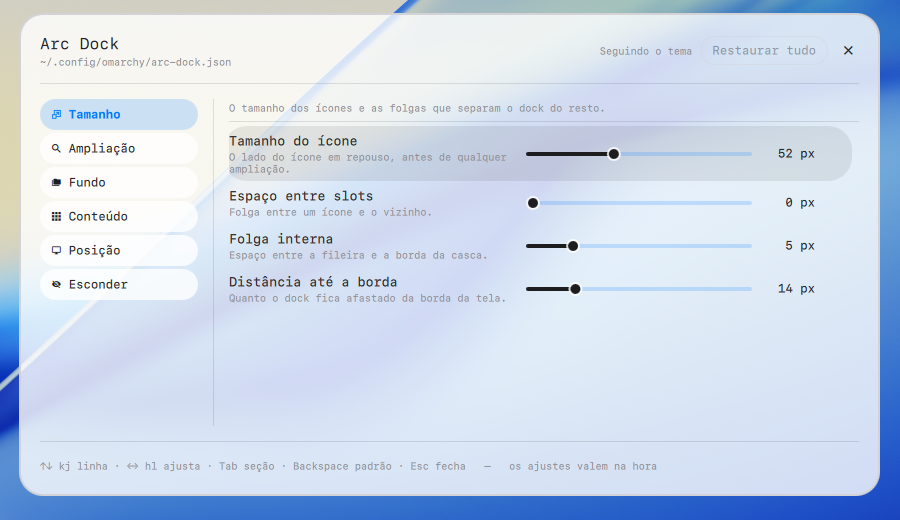
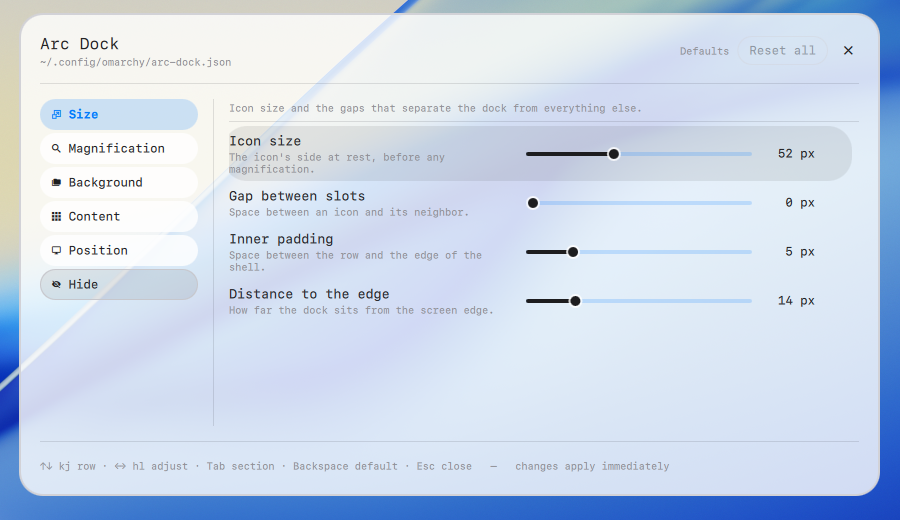
feat: English UI
Settings window, context menu and log messages in English. Code comments
stay in Portuguese. Preview and settings screenshots retaken.

diff --git a/ArcSettings.qml b/ArcSettings.qml
@@ -109,88 +109,88 @@ Item {
     {
       id: "size",
       icon: "",
-      title: "Tamanho",
-      blurb: "O tamanho dos ícones e as folgas que separam o dock do resto.",
+      title: "Size",
+      blurb: "Icon size and the gaps that separate the dock from everything else.",
       items: [
-        { key: "iconSize", type: "int", label: "Tamanho do ícone", suffix: " px",
-          description: "O lado do ícone em repouso, antes de qualquer ampliação." },
-        { key: "slotGap", type: "int", label: "Espaço entre slots", suffix: " px",
-          description: "Folga entre um ícone e o vizinho." },
-        { key: "dockPadding", type: "int", label: "Folga interna", suffix: " px",
-          description: "Espaço entre a fileira e a borda da casca." },
-        { key: "edgeMargin", type: "int", label: "Distância até a borda", suffix: " px",
-          description: "Quanto o dock fica afastado da borda da tela." }
+        { key: "iconSize", type: "int", label: "Icon size", suffix: " px",
+          description: "The icon's side at rest, before any magnification." },
+        { key: "slotGap", type: "int", label: "Gap between slots", suffix: " px",
+          description: "Space between an icon and its neighbor." },
+        { key: "dockPadding", type: "int", label: "Inner padding", suffix: " px",
+          description: "Space between the row and the edge of the shell." },
+        { key: "edgeMargin", type: "int", label: "Distance to the edge", suffix: " px",
+          description: "How far the dock sits from the screen edge." }
       ]
     },
     {
       id: "magnify",
       icon: "",
-      title: "Ampliação",
-      blurb: "A onda que levanta o ícone embaixo do ponteiro.",
+      title: "Magnification",
+      blurb: "The wave that lifts the icon under the pointer.",
       items: [
-        { key: "magnify", type: "bool", label: "Onda sob o ponteiro",
-          description: "O ícone embaixo do cursor cresce e sobe acima da casca, os vizinhos crescem menos, e o dock se abre para caber." },
-        { key: "magnifyScale", type: "int", label: "Tamanho no pico", suffix: " %", needs: "magnify",
-          description: "Quanto o ícone do pico cresce em relação ao tamanho de repouso." },
-        { key: "magnifyReach", type: "int", label: "Alcance da onda", suffix: " slots", suffixOne: " slot", needs: "magnify",
-          description: "Quantos vizinhos de cada lado sobem junto com o ícone do pico." }
+        { key: "magnify", type: "bool", label: "Wave under the pointer",
+          description: "The icon under the cursor grows and rises above the shell, neighbors grow less, and the dock opens up to fit." },
+        { key: "magnifyScale", type: "int", label: "Size at the peak", suffix: " %", needs: "magnify",
+          description: "How much the peak icon grows relative to its resting size." },
+        { key: "magnifyReach", type: "int", label: "Reach", suffix: " slots", suffixOne: " slot", needs: "magnify",
+          description: "How many neighbors on each side rise along with the peak icon." }
       ]
     },
     {
       id: "background",
       icon: "",
-      title: "Fundo",
-      blurb: "De que cor é a casca, e quanto do desktop atravessa ela.",
+      title: "Background",
+      blurb: "What color the shell is, and how much of the desktop shows through.",
       items: [
-        { key: "dockTheme", type: "enum", label: "Tom da casca" },
-        { key: "glass", type: "bool", label: "Vidro fosco",
-          description: "A casca fica translúcida e o Hyprland desfoca o que passa por trás dela." },
-        { key: "glassOpacity", type: "int", label: "Opacidade da casca", suffix: " %", needs: "glass",
-          description: "Quanto da casca é cor, e quanto é o desktop atravessando." }
+        { key: "dockTheme", type: "enum", label: "Shell tone" },
+        { key: "glass", type: "bool", label: "Frosted glass",
+          description: "The shell turns translucent and Hyprland blurs what passes behind it." },
+        { key: "glassOpacity", type: "int", label: "Shell opacity", suffix: " %", needs: "glass",
+          description: "How much of the shell is color, and how much is the desktop showing through." }
       ]
     },
     {
       id: "content",
       icon: "",
-      title: "Conteúdo",
-      blurb: "O que a fileira mostra além dos apps que estão abertos.",
+      title: "Content",
+      blurb: "What the row shows besides the apps that are open.",
       items: [
-        { key: "showLauncher", type: "bool", label: "Botão de apps",
-          description: "O botão que abre o menu de apps, na ponta da fileira." },
-        { key: "showSeparator", type: "bool", label: "Filete separador",
-          description: "Divide os grupos da fileira: os apps com slot, os recentes e o botão de apps." },
-        { key: "showIndicators", type: "bool", label: "Pontos de estado",
-          description: "A marca embaixo do ícone que diz que o app está aberto. Sem ela, um app fixado e fechado fica igual a um aberto." },
-        { key: "indicatorStyle", type: "enum", label: "Marca de app aberto", needs: "showIndicators" },
-        { key: "showBadges", type: "bool", label: "Contador de notificações",
-          description: "O número vermelho no canto do ícone, como no macOS: quantas notificações do app chegaram desde a última vez que ele esteve em foco." },
-        { key: "recentCount", type: "int", label: "Apps recentes",
-          description: "Apps que você abriu e fechou continuam à mão, entre os que têm slot e o botão. Zero desliga o grupo." }
+        { key: "showLauncher", type: "bool", label: "App button",
+          description: "The button that opens the app menu, at the end of the row." },
+        { key: "showSeparator", type: "bool", label: "Separator",
+          description: "Divides the groups in the row: apps with a slot, recents and the app button." },
+        { key: "showIndicators", type: "bool", label: "State dots",
+          description: "The mark under the icon that says the app is open. Without it, a pinned closed app looks the same as an open one." },
+        { key: "indicatorStyle", type: "enum", label: "Open app mark", needs: "showIndicators" },
+        { key: "showBadges", type: "bool", label: "Notification counter",
+          description: "The red number on the corner of the icon, as on macOS: how many notifications arrived since the app was last focused." },
+        { key: "recentCount", type: "int", label: "Recent apps",
+          description: "Apps you opened and closed stay within reach, between the ones with a slot and the button. Zero turns the group off." }
       ]
     },
     {
       id: "position",
       icon: "",
-      title: "Posição",
-      blurb: "Em que borda e em que tela o dock mora.",
+      title: "Position",
+      blurb: "Which edge and which screen the dock lives on.",
       items: [
-        { key: "edge", type: "enum", label: "Borda da tela",
-          description: "De que lado da tela o dock ancora." },
+        { key: "edge", type: "enum", label: "Screen edge",
+          description: "Which side of the screen the dock anchors to." },
         { key: "screenName", type: "enum", widget: "dropdown", label: "Monitor",
-          description: "Em qual saída o dock aparece. Automática segue a maior." }
+          description: "Which output the dock shows on. Automatic follows the largest." }
       ]
     },
     {
       id: "hide",
       icon: "",
-      title: "Esconder",
-      blurb: "Quando o dock sai de cena, e com que pressa.",
+      title: "Hide",
+      blurb: "When the dock gets out of the way, and how fast.",
       items: [
-        { key: "autoHide", type: "enum", label: "Quando sair de cena" },
-        { key: "hideDelay", type: "int", label: "Carência para recolher", suffix: " ms", step: 50,
-          description: "Quanto o dock espera com o ponteiro longe antes de recolher." },
-        { key: "slideDuration", type: "int", label: "Duração do deslize", suffix: " ms", step: 20,
-          description: "O tempo que o dock leva para sair e para voltar." }
+        { key: "autoHide", type: "enum", label: "When to hide" },
+        { key: "hideDelay", type: "int", label: "Grace before hiding", suffix: " ms", step: 50,
+          description: "How long the dock waits with the pointer away before hiding." },
+        { key: "slideDuration", type: "int", label: "Slide duration", suffix: " ms", step: 20,
+          description: "How long the dock takes to leave and to come back." }
       ]
     }
   ]
@@ -210,36 +210,36 @@ Item {
   // uma linha só, e a explicação de cada um é o texto que muda embaixo do nome
   // da linha conforme a escolha (ver `descriptionFor`).
   readonly property var dockThemeOptions: [
-    { value: "theme", label: "Do tema" },
-    { value: "light", label: "Claro" },
-    { value: "dark", label: "Escuro" }
+    { value: "theme", label: "Theme" },
+    { value: "light", label: "Light" },
+    { value: "dark", label: "Dark" }
   ]
 
   readonly property var indicatorStyleOptions: [
-    { value: "dot", label: "Um ponto" },
-    { value: "dots", label: "Por janela" },
-    { value: "bar", label: "Traço" }
+    { value: "dot", label: "One dot" },
+    { value: "dots", label: "Per window" },
+    { value: "bar", label: "Bar" }
   ]
 
   readonly property var edgeOptions: [
-    { value: "bottom", label: "Abaixo" },
-    { value: "top", label: "Acima" },
-    { value: "left", label: "Esquerda" },
-    { value: "right", label: "Direita" }
+    { value: "bottom", label: "Bottom" },
+    { value: "top", label: "Top" },
+    { value: "left", label: "Left" },
+    { value: "right", label: "Right" }
   ]
 
   readonly property var autoHideOptions: [
-    { value: "never", label: "Nunca" },
-    { value: "fullscreen", label: "Tela cheia" },
-    { value: "covered", label: "Coberto" },
-    { value: "always", label: "Sempre" }
+    { value: "never", label: "Never" },
+    { value: "fullscreen", label: "Fullscreen" },
+    { value: "covered", label: "Covered" },
+    { value: "always", label: "Always" }
   ]
 
   // As saídas ligadas, mais a opção automática. O nome é a identidade que o
   // dock guarda: é ele que ainda casa com a mesma tela depois de um reinício,
   // ao contrário da ordem em que o compositor as devolve.
   readonly property var screenOptions: {
-    var options = [{ value: "", label: "Automática (a maior)" }]
+    var options = [{ value: "", label: "Automatic (largest)" }]
     var screens = Quickshell.screens || []
     for (var i = 0; i < screens.length; i++) {
       var candidate = screens[i]
@@ -271,20 +271,20 @@ Item {
     if (!root.config) return String(spec.description || "")
 
     if (spec.key === "dockTheme") {
-      if (root.config.dockTheme === "light") return "Vidro claro, independente do tema do desktop."
-      if (root.config.dockTheme === "dark") return "Vidro escuro, independente do tema do desktop — o dock fica escuro mesmo num tema claro."
-      return "A casca sai do tom de popup do tema ativo, e troca junto com ele."
+      if (root.config.dockTheme === "light") return "Light glass, regardless of the desktop theme."
+      if (root.config.dockTheme === "dark") return "Dark glass, regardless of the desktop theme: the dock stays dark even on a light theme."
+      return "The shell takes the active theme's popup tone and changes with it."
     }
     if (spec.key === "indicatorStyle") {
-      if (root.config.indicatorStyle === "dots") return "Cada janela aberta ganha um ponto, até dois."
-      if (root.config.indicatorStyle === "bar") return "Um traço sob o ícone, mais visível que o ponto sobre ícones claros."
-      return "Um ponto só, tenha o app uma janela ou várias."
+      if (root.config.indicatorStyle === "dots") return "Each open window gets a dot, up to two."
+      if (root.config.indicatorStyle === "bar") return "A bar under the icon, easier to see than a dot on light icons."
+      return "A single dot, whether the app has one window or several."
     }
     if (spec.key === "autoHide") {
-      if (root.config.autoHide === "never") return "O dock fica plantado, mesmo por cima de um app em tela cheia."
-      if (root.config.autoHide === "always") return "O dock só aparece quando o ponteiro encosta na borda."
-      if (root.config.autoHide === "covered") return "Sai de cena assim que qualquer janela alcança a área dele — inclusive dois apps lado a lado, sem nenhum em tela cheia."
-      return "Sai de cena quando um app ocupa a tela sozinho, e volta ao encostar na borda."
+      if (root.config.autoHide === "never") return "The dock stays put, even over a fullscreen app."
+      if (root.config.autoHide === "always") return "The dock only shows when the pointer touches the edge."
+      if (root.config.autoHide === "covered") return "Hides as soon as any window reaches its area, including two apps side by side with neither in fullscreen."
+      return "Hides when one app takes the whole screen, and comes back when the pointer touches the edge."
     }
     return String(spec.description || "")
   }
@@ -297,8 +297,8 @@ Item {
     if (spec.key !== "glass") return ""
     if (!root.config || !root.config.glass) return ""
     if (!root.service || root.service.compositorBlur) return ""
-    return "O blur do Hyprland está desligado, então a casca fica translúcida sem ficar fosca. "
-      + "Ligue decoration:blur em ~/.config/hypr/looknfeel.lua."
+    return "Hyprland blur is off, so the shell is translucent without being frosted. "
+      + "Enable decoration:blur in ~/.config/hypr/looknfeel.lua."
   }
 
   // ---------------------------------------------------------------- valores
@@ -590,7 +590,7 @@ Item {
         PanelActionButton {
           id: undoButton
           iconText: ""
-          tooltipText: "Voltar ao padrão"
+          tooltipText: "Reset to default"
           foreground: Color.popups.text
           opacity: row.modified ? 1 : 0
           enabled: row.modified
@@ -795,7 +795,7 @@ Item {
             }
 
             Text {
-              text: root.config ? root.displayPath : "O dock não está no ar — não há o que ajustar."
+              text: root.config ? root.displayPath : "The dock is not running, so there is nothing to adjust."
               color: Color.muted
               font.family: Style.fontFamily
               font.pixelSize: Style.font.caption
@@ -816,8 +816,8 @@ Item {
               text: {
                 if (!root.config) return ""
                 var count = root.config.overrideCount
-                if (count === 0) return "Seguindo o tema"
-                return count + (count === 1 ? " ajuste" : " ajustes")
+                if (count === 0) return "Defaults"
+                return count + (count === 1 ? " change" : " changes")
               }
               color: (root.config && root.config.overrideCount > 0) ? Color.accent : Color.muted
               font.family: Style.fontFamily
@@ -826,7 +826,7 @@ Item {
             }
 
             Button {
-              text: "Restaurar tudo"
+              text: "Reset all"
               // Sem nada fora do padrão não há o que restaurar, e um botão que
               // não faz nada só faz duvidar se o clique valeu.
               enabled: !!root.config && root.config.customized
@@ -842,7 +842,7 @@ Item {
 
             PanelActionButton {
               iconText: ""
-              tooltipText: "Fechar  ·  Esc"
+              tooltipText: "Close  ·  Esc"
               foreground: Color.popups.text
               anchors.verticalCenter: parent.verticalCenter
               onClicked: root.close()
@@ -925,7 +925,7 @@ Item {
                 anchors.right: parent.right
                 anchors.verticalCenter: parent.verticalCenter
                 iconText: ""
-                tooltipText: "Restaurar esta seção"
+                tooltipText: "Reset this section"
                 foreground: Color.popups.text
                 visible: root.sectionModified(root.section)
                 onClicked: root.resetSection()
@@ -984,7 +984,7 @@ Item {
             width: parent.width
             horizontalAlignment: Text.AlignHCenter
             wrapMode: Text.WordWrap
-            text: "O dock não está no ar. Suba a shell e abra os ajustes de novo."
+            text: "The dock is not running. Start the shell and open the settings again."
             color: Color.muted
             font.family: Style.fontFamily
             font.pixelSize: Style.font.bodySmall
@@ -1003,8 +1003,8 @@ Item {
             anchors.left: parent.left
             anchors.right: parent.right
             anchors.verticalCenter: parent.verticalCenter
-            text: "↑↓ kj linha · ←→ hl ajusta · Tab seção · Backspace padrão · Esc fecha"
-              + "   —   os ajustes valem na hora"
+            text: "↑↓ kj row · ←→ hl adjust · Tab section · Backspace default · Esc close"
+              + "   —   changes apply immediately"
             color: Color.muted
             font.family: Style.fontFamily
             font.pixelSize: Style.font.caption

diff --git a/Arcdock.qml b/Arcdock.qml
@@ -1548,11 +1548,11 @@ Item {
       // fixado fechado não há "outra vez": a linha é só abrir.
       //
       // Comparar o rótulo resolve pouco: o nome da ação vem no idioma da
-      // sessão ("New Window" numa sessão en_US) e o genérico está escrito aqui
-      // em português, então dois textos diferentes passavam pelo teste e o menu
-      // saía com "Nova janela" e "New Window" um em cima do outro. O que casa
+      // sessão ("Nova janela" numa sessão pt_BR) e o genérico está escrito aqui
+      // em inglês, então dois textos diferentes passavam pelo teste e o menu
+      // saía com "New window" e "Nova janela" um em cima do outro. O que casa
       // em qualquer idioma é o *id* da ação, que o .desktop não traduz.
-      var generic = windows.length > 0 ? "Nova janela" : "Abrir"
+      var generic = windows.length > 0 ? "New window" : "Open"
       var duplicated = false
       for (var a = 0; a < actions.length; a++) {
         if (actions[a].label.toLowerCase() === generic.toLowerCase()) duplicated = true
@@ -1589,7 +1589,7 @@ Item {
     if (desktop) {
       items.push({ separator: true })
       items.push({
-        label: entry.pinned ? "Desafixar da dock" : "Fixar na dock",
+        label: entry.pinned ? "Unpin from dock" : "Pin to dock",
         run: pinToggler(entry)
       })
     }
@@ -1599,13 +1599,13 @@ Item {
     // saída. No mesmo grupo do fixar, que é a outra pergunta sobre quem ocupa a
     // fileira. Fixado e aberto não têm o item: o slot deles não vem daqui.
     if (!entry.pinned && windows.length === 0 && root.recentIndex(entry.key) >= 0) {
-      items.push({ label: "Remover dos recentes", run: recentRemover(entry) })
+      items.push({ label: "Remove from recents", run: recentRemover(entry) })
     }
 
     if (windows.length > 0) {
       items.push({ separator: true })
       items.push({
-        label: windows.length > 1 ? "Fechar tudo (" + windows.length + ")" : "Fechar",
+        label: windows.length > 1 ? "Close all (" + windows.length + ")" : "Close",
         run: closer(windows)
       })
     }
@@ -1733,7 +1733,7 @@ Item {
         return
       }
       attemptsLeft--
-      if (attemptsLeft === 0) console.warn("arcdock: serviço de notificações não encontrado; o contador fica desligado")
+      if (attemptsLeft === 0) console.warn("arcdock: notification service not found; the counter stays off")
     }
   }
 
@@ -2002,7 +2002,7 @@ Item {
     try {
       data = JSON.parse(text)
     } catch (error) {
-      console.warn("arcdock: estado ilegível em", root.statePath, "-", error)
+      console.warn("arcdock: could not read state from", root.statePath, "-", error)
       return
     }
 
@@ -2051,7 +2051,7 @@ Item {
     // A gravação é outra história: falhando ela, o fixado que está na tela some
     // no próximo início, e o usuário não teria como saber por quê.
     onSaveFailed: function (error) {
-      console.warn("arcdock: não deu para gravar o estado em", root.statePath, "-", error)
+      console.warn("arcdock: could not write state to", root.statePath, "-", error)
     }
   }
 

diff --git a/ArcConfig.qml b/ArcConfig.qml
@@ -291,7 +291,7 @@ Item {
       // Ficar com os padrões é melhor que ficar sem dock. E o arquivo não é
       // reescrito daqui: sobrescrever um JSON que o usuário estragou editando
       // levaria junto o resto do que ele tinha ajustado.
-      console.warn("arcdock: ajustes ilegíveis em", config.path, "-", error)
+      console.warn("arcdock: could not read settings from", config.path, "-", error)
       return
     }
 
@@ -326,7 +326,7 @@ Item {
     // quer mesmo dizer "nada ajustado", e gravar já é seguro.
     onLoadFailed: config.loaded = true
     onSaveFailed: function (error) {
-      console.warn("arcdock: não deu para gravar os ajustes em", config.path, "-", error)
+      console.warn("arcdock: could not write settings to", config.path, "-", error)
     }
   }
 
